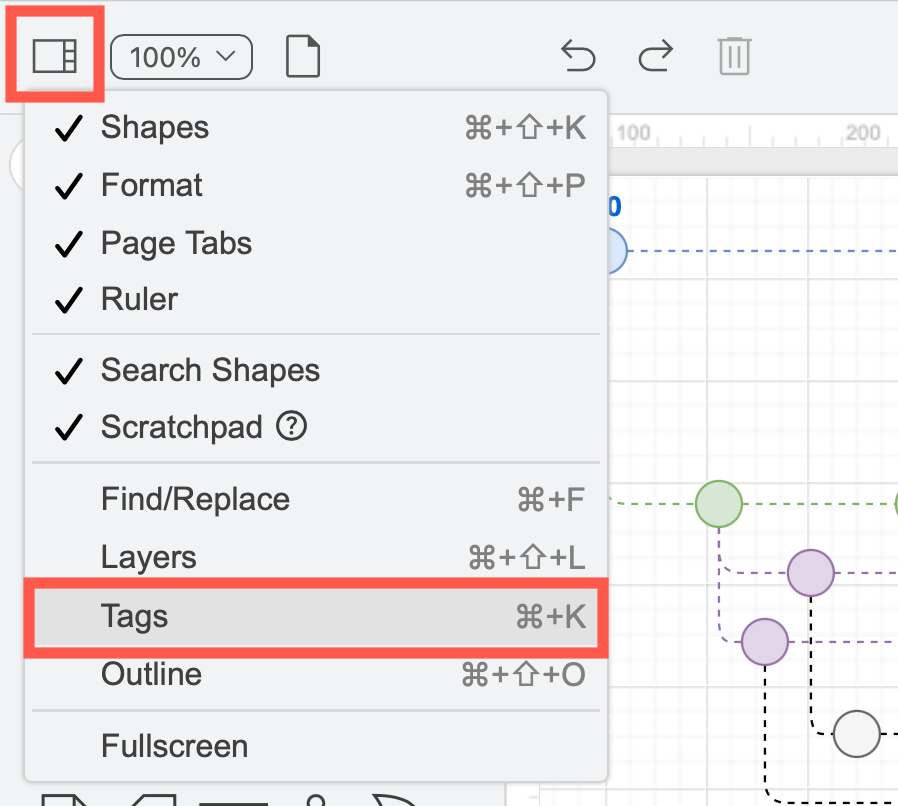
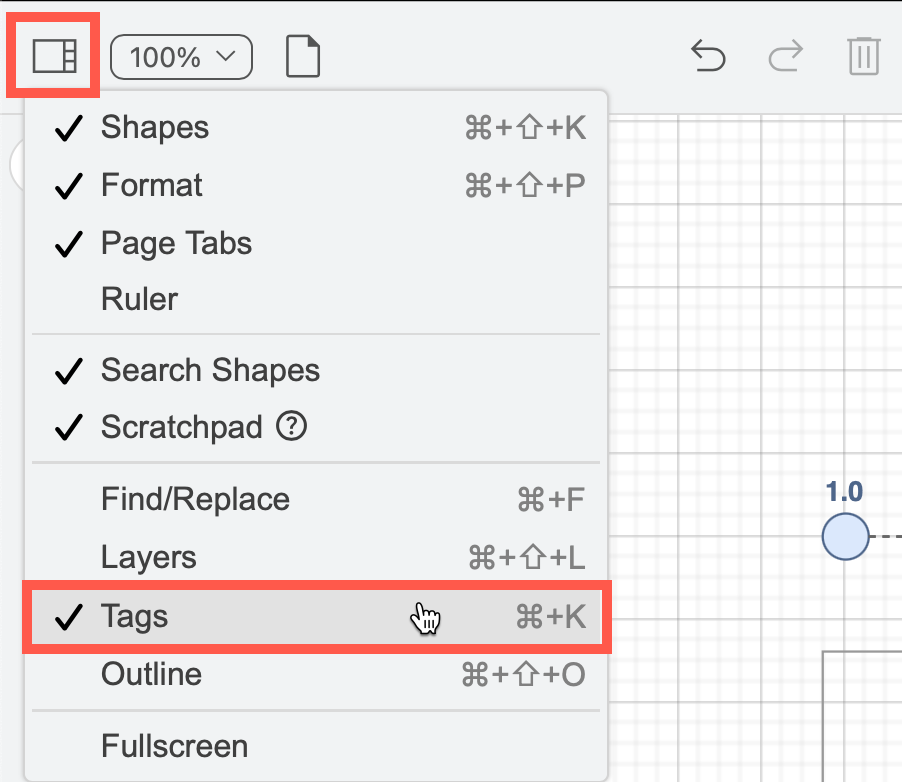
UI changes cont.

diff --git a/_posts/2023-01-20-gitflow-feature-flags.md b/_posts/2023-01-20-gitflow-feature-flags.md
@@ -69,19 +69,19 @@ Tags let you hide or display tagged shapes and connectors, visualising how relea
 
 **Add tags to shapes**
 
-* Click on _View_ in the left of the toolbar and enable _Tags_ or press ``Cmd+K`` on macOS or ``Ctrl+K`` on Windows.
+* To open the _Tags_ dialog, click on _View_ in the left of the toolbar and enable _Tags_ or press ``Cmd+K`` on macOS or ``Ctrl+K`` on Windows.
 <br /><img src="/assets/img/blog/simple-mode-view-tags.png" style="width=100%;max-width:250px;height:auto;" alt="Use the View menu on the toolbar to show the Tags dialog or press Ctrl+K/Cmd+K">
 
-* Select the shapes and connectors you want to apply a tag to, and click _Add_ in the Tags dialog. Enter the new tag press enter. 
+* Select the shapes and connectors you want to apply a new tag to, and click _+_ in the Tags dialog. Enter the new tag name and press ``Enter``. 
 
-* Click a checkbox to the right of an existing tag to add it to a selected shape or connector. 
+* Select one or more shapes, then click a checkbox to the right of an existing tag to add the tag to the selected shapes. 
+  
+* To remove a tag from a shape, select the shape, then deselect the checkbox to the right of its tag name.
 
 **Note:** In this example, we've added the core tag to all trunk (main) versions to make it easier to visualise. 
 
-[<img src="/assets/img/blog/feature-flag-gitflow.png" style="width=100%;max-width:600px;height:auto;" alt="Trunk-based development with feature branches works well with feature flags on release - apply tags to shapes to visualise this in draw.io">](https://app.diagrams.net/?lightbox=1&highlight=0000ff&edit=_blank&layers=1&nav=1&title=#Uhttps%3A%2F%2Fraw.githubusercontent.com%2Fjgraph%2Fdrawio-diagrams%2Fdev%2Fblog%2Fgitflow-feature-flags.drawio)
-<br />[_Open this gitflow with feature flag tags in our diagram viewer_](https://app.diagrams.net/?lightbox=1&highlight=0000ff&edit=_blank&layers=1&nav=1&title=#Uhttps%3A%2F%2Fraw.githubusercontent.com%2Fjgraph%2Fdrawio-diagrams%2Fdev%2Fblog%2Fgitflow-feature-flags.drawio)
-
-**Tip:** You can turn tags on and off via the tags tool in the viewer. 
+[<img src="/assets/img/blog/gitflow-add-core-feature-flag-tag.png" style="width=100%;max-width:600px;height:auto;" alt="Gitflow with an added core feature flag to all trunk shapes in the gitflow diagram">](https://app.diagrams.net/?lightbox=1&highlight=0000ff&edit=_blank&layers=1&nav=1&title=#Uhttps%3A%2F%2Fraw.githubusercontent.com%2Fjgraph%2Fdrawio-diagrams%2Fdev%2Fblog%2Fgitflow-feature-flags.drawio)
+<br />[_Open this gitflow with all feature flag tags in our diagram viewer_](https://app.diagrams.net/?lightbox=1&highlight=0000ff&edit=_blank&layers=1&nav=1&title=#Uhttps%3A%2F%2Fraw.githubusercontent.com%2Fjgraph%2Fdrawio-diagrams%2Fdev%2Fblog%2Fgitflow-feature-flags.drawio)
 
 
 **Visualise feature flag-affected branches and releases**
@@ -91,10 +91,12 @@ Now, with nothing selected in your diagram, click the eye symbols next to tags (
 For example, to see which feature branches are flagged as "api", hide all other branches.  If you want to select just those shapes/connectors, click on the select checkbox next to the tag name.
 <br /><img src="/assets/img/blog/gitflow-api-feature-flag-tag.gif" style="width=100%;max-width:600px;height:auto;" alt="Tags in draw.io let you clearly visualise which feature branches and main versions on the trunk are affected by feature flags and quickly select them">
 
+**Reset to see all tagged shapes:** Click the eye at the bottom of the Tags dialog to show all hidden tagged shapes. 
+
 **Tips for working with tags in draw.io**
 
 * Hover over any shape to see their tags.
-* Connectors coming from or going to hidden shapes will not be displayed.
+* Note that connectors coming from or going to hidden shapes will not be displayed even if they are not tagged.
 * Hold down ``Shift`` and click on any of the eye symbols in the Tags dialog to hide or display all tags. 
 
 In our example Gitflow with feature flag tags, to see which versions on any branch have a feature flags applied, hide the core tag. The shapes that have disappeared are ones that have no feature flags - all customers will be able to see all features on those main versions.
@@ -119,13 +121,14 @@ Add [callouts with list shapes](/blog/label-any-diagram.html) on the released ve
 Also called [shape data](/doc/faq/shape-metadata.html), these could also indicate feature flags, as just like tags, they are displayed when you hover over a shape in your diagram. 
 <br /><img src="/assets/img/blog/feature-flags-shape-data-hover.png" style="width=100%;max-width:250px;height:auto;" alt="Add feature flags to a custom shape property in your gitflow diagram">
 
-1. Use the _Edit_ drop down in the Style panel of the format panel on the right to edit, copy and paste shape data, or right-click on a shape then select _Edit_ from the context menu.
-2. Type the name of a new custom shape property in the _Enter Property Name_ field and click _Add Property_.
-3. Add the feature flag names in the field next to the new shape property.
-<br /><img src="/assets/img/blog/feature-flags-shape-property.png" style="width=100%;max-width:250px;height:auto;" alt="Add feature flags to a custom shape property in your gitflow diagram">
+1. Use the _Edit_ drop down in the Style panel of the format panel on the right to edit, copy and paste shape data, or right-click on a shape then select _Edit > Edit Data_ from the context menu.
+<br /><img src="/assets/img/blog/feature-flags-style-panel-edit.png" style="width=100%;max-width:250px;height:auto;" alt="Add feature flags to a shape via Edit > Data in the Style panel in draw.io">
+1. Type the name of a new custom shape property in the _Enter Property Name_ field and click _Add Property_.
+2. Add the feature flag names in the field next to the new shape property.
+<br /><img src="/assets/img/blog/feature-flags-shape-property.png" style="width=100%;max-width:300px;height:auto;" alt="Add feature flags to a custom shape property in your gitflow diagram">
 
-**Tip:** Copy and paste shape data to quickly duplicate custom properties on another shape via _Edit_ in the right-click context menu.
-<br /><img src="/assets/img/blog/feature-flags-copy-paste-shape-data.png" style="width=100%;max-width:250px;height:auto;" alt="Copy and paste tags on shapes via the right-click context menu in draw.io"> 
+**Tip:** Copy and paste shape data to quickly duplicate custom properties on another shape via _Edit > Copy Data_ and _Edit > Paste Data_ in the right-click context menu.
+<br /><img src="/assets/img/blog/feature-flags-copy-paste-shape-data.png" style="width=100%;max-width:300px;height:auto;" alt="Copy and paste tags on shapes via the right-click context menu in draw.io"> 
 
 [Learn how to work with custom shape properties](/blog/shape-data.html)
 

diff --git a/_posts/2021-10-05-shape-data.md b/_posts/2021-10-05-shape-data.md
@@ -23,8 +23,8 @@ Additional shape data can be used in many different ways.
 
 To see a selected shape's metadata, press ``Ctrl+M`` on Windows, or ``Cmd+M`` on macOS. 
 
-Alternatively, on the _Arrange_ tab in the format panel on the right, click _Edit Data_, or right-click on a shape and select _Edit Data_ from the context menu, or select _Edit > Edit Data_ from the menu. 
-<br /><img src="/assets/img/blog/edit-data-context-menu-arrange-tab.png" style="width=100%;max-width:300px;height:auto;" alt="Right-click on a shape and select Edit data from the context menu, or click Edit Data in the Arrange tab in the format panel"> 
+Alternatively, on the _Style_ tab in the format panel on the right, Select _Edit > Edit Data_ from the list, or right-click on a shape and select _Edit > Edit Data_ from the context menu, or select _Edit > Edit Data_ from the editor menu. 
+<br /><img src="/assets/img/blog/edit-data-context-menu-style-tab.png" style="width=100%;max-width:300px;height:auto;" alt="Right-click on a shape and select Edit data from the context menu, or click Edit > Edit Data in the Style tab in the format panel"> 
 
 In the shape properties dialog, you can add and edit the extra information attached to that shape. 
 <br /><img src="/assets/img/blog/shape-data-link-tag-tooltip.png" style="width=100%;max-width:250px;height:auto;" alt="Add custom properties to a shape, including a link, tags or a tooltip"> 
@@ -37,15 +37,15 @@ In the example above, the shape has a link, a tag and a tooltip.
 ### Copy shape data from one shape to another
 
 1. Select the source shape that contains the shape data you want to copy. 
-2. Click _Copy Data_ in the _Arrange_ tab of the format panel on the right. 
-3. Select the target shape, and click _Paste Data_ in the _Arrange_ tab to overwrite the source shape's metadata. 
+2. Click _Edit > Copy Data_ in the _Style_ tab of the format panel on the right. 
+3. Select the target shape, and click _Edit > Paste Data_ in the _Style_ tab to overwrite the source shape's metadata. 
 <br /><img src="/assets/img/blog/shape-data-copy-paste.gif" style="width=100%;max-width:400px;height:auto;" alt="Copy shape data from one shape and paste it onto another via the Arrange tab"> 
 
 ### Extract shape data
 
 1. Select the shape with the metadata that you want to export. 
-2. Hold ``Shift`` down then left-click on _Copy Data_ in the _Arrange_ tab of the format panel on the right. 
-3. You can now copy the shape data as it appears in XML, including the shape's label text and style and any shape properties.
+2. Click on _Edit > Copy Data_ in the _Style_ tab of the format panel on the right. 
+3. Click _Export_ to see the shape data as it appears in XML, including the shape's label text, styles and shape properties (if defined).
 <br /><img src="/assets/img/blog/shape-data-extract.png" style="width=100%;max-width:250px;height:auto;" alt="Extract the shape's data as it appears in XML"> 
 
 **Dev Tools:** Click _Console_ to export the shape data to your browser's console.
@@ -109,7 +109,7 @@ Custom properties can also be applied globally, not just to shapes, connectors a
 
 While shape style and geometry information are not treated as shape properties, you can edit them in a similar way to editing shape properties. In this way, you can create more complex custom shapes for your diagram.
 
-To see **shape style information**, select a shape press ``Ctrl+E`` on Windows or ``Cmd+E`` on macOS, or select the shape and click _Edit Style_ in the _Style_ tab of the format panel. Edit the XML directly to describe a different [shape style](/doc/faq/shape-styles.html). 
+To see **shape style information**, select a shape press ``Ctrl+E`` on Windows or ``Cmd+E`` on macOS, or select the shape and click _Edit > Edit Style_ in the _Style_ tab of the format panel. Edit the XML directly to describe a different [shape style](/doc/faq/shape-styles.html). 
 <br /><img src="/assets/img/blog/edit-style-dialog.png" style="width=100%;max-width:250px;height:auto;" alt="Edit a shape's style information via Ctrl+E or Cmd+E">
 
 To create **custom shapes**, you need to describe the [shape geometry](/doc/faq/shape-complex-create-edit.html) in addition to the shape style. In the draw.io editor menu, click _Arrange > Insert > Shape_. Enter the geometry and style information in the text field. 

diff --git a/_posts/2019-12-17-placeholders.md b/_posts/2019-12-17-placeholders.md
@@ -22,7 +22,7 @@ But first, you need to add a property to the shape or container shape you want t
 
 You can add custom properties to any shape, connector, container shape, swim lane, etc.
 
-1. Select a shape, and in the _Arrange_ tab of the format panel, click on _Edit Data_. Alternatively, right-click on the shape and select _Edit Data_ from the context menu, or select the shape and press the keyboard shortcut ``Ctrl+M`` on Windows or ``Cmd+M`` on MacOs.
+1. Select a shape, and in the _Style_ tab of the format panel, click on _Edit > Edit Data_. Alternatively, right-click on the shape and select _Edit > Edit Data_ from the context menu, or select the shape and press the keyboard shortcut ``Ctrl+M`` on Windows or ``Cmd+M`` on MacOs.
 2. The dialog lists the custom properties you have added. To add a new one, enter a name for the custom property, then click _Add Property_.
 <br /><img src="/assets/img/blog/add-property-to-shape-1.png" style="width=100%;max-width:400px;height:auto;" alt="Add a property name to your shape">
 3. Now enter a value for the custom property in the text field next to the name you just entered, and click _Apply_.
@@ -51,7 +51,7 @@ If you want to use the properties defined in a parent shape as a placeholder, yo
 
 To display the value of a shape's property in a label, write the property name surrounded by % signs. For example, if you have added a property called _group_ to the shape, write ``%group%``.
 
-1. Right-click on a shape and select _Edit Data_ from the context menu, make sure the _Placeholders_ checkbox is selected, then click _Apply_.
+1. Right-click on a shape and select _Edit > Edit Data_ from the context menu, make sure the _Placeholders_ checkbox is selected, then click _Apply_.
 <br /><img src="/assets/img/blog/use-placeholders-example.png" style="width=100%;max-width:400px;height:auto;" alt="Edit the shape's data, and enable the Placeholders checkbox">
 2. Edit the text label of the shape to include the property name surrounded by % signs.
 <br /><img src="/assets/img/blog/placeholder-example-label.png" style="max-width:100%;height:auto;" alt="Add a placeholder to a shape label, for example %group%">
@@ -64,7 +64,7 @@ If the property name does not exist for that shape, the value of the matching pr
 
 If a property isn't found and the placeholder text appears with the % signs, edit the shape data (``Ctrl+M`` or ``Cmd+M``) of both the shape and its ancestor, double check the property name is correct and make sure that the _Placeholders_ checkbox is enabled.
 
-Note that the diagram itself can have custom properties that can be referenced by placeholders. Make sure nothing in you diagram is selected, then click _Edit Data_ in the format panel on the right to see these 'global' custom properties.
+Note that the diagram itself can have custom properties that can be referenced by placeholders. Make sure nothing in you diagram is selected, then click _Edit > Edit Data_ in the format panel on the right to see these 'global' custom properties.
 
 Note that there are a few _special_ shape property names:
 - **tooltip**: If you define a tooltip property, only this text will be displayed when you hover over a shape (and no other custom properties).
@@ -90,6 +90,6 @@ Looking at a somewhat more practical example - you can use placeholders in label
 
 In the example below, the labels on the individual nodes inside the subnet use a placeholder which references the custom ``subnet`` property of the containing oval shape. This makes it easy to update the IP addresses in that subnet.
 
-<img src="/assets/img/blog/placeholder-subnet-example.gif" style="width=100%;max-width:400px;height:auto;" alt="Placeholders in the the labels of nodes in an infrastructure diagram">
+<img src="/assets/img/blog/placeholder-subnet-example.gif" style="width=100%;max-width:600px;height:auto;" alt="Placeholders in the the labels of nodes in an infrastructure diagram">
 
 [Open this example in our online version of draw.io](https://app.diagrams.net/?lightbox=0&highlight=0000ff&edit=_blank&layers=1&page=1&nav=1&title=#Uhttps%3A%2F%2Fraw.githubusercontent.com%2Fjgraph%2Fdrawio-diagrams%2Fdev%2Fblog%2Fnetwork-with-placeholders.drawio)

diff --git a/_posts/2022-07-20-translate-diagrams.md b/_posts/2022-07-20-translate-diagrams.md
@@ -34,7 +34,7 @@ Alternatively, add ``"translateDiagrams": true`` to the [draw.io editor configur
 ## Translate labels on shapes and connectors
 When you have enabled the diagram translation feature via the URL parameter above, the original label is shown at the top of the _Edit Data_ dialog. 
 
-1. Right-click on a shape or connector and select _Edit Data_ from the context menu. Alternatively, select a shape and press ``Ctrl+M`` or ``Cmd+M``.
+1. Right-click on a shape or connector and select _Edit > Edit Data_ from the context menu. Alternatively, select a shape and press ``Ctrl+M`` or ``Cmd+M``.
 2. Add a language for the label in the format ``label_XY`` where ``XY`` is a [two-letter language code](https://en.wikipedia.org/wiki/List_of_ISO_639-1_codes), and click _Add Property_. 
 <br /><img src="/assets/img/blog/translate-add-label.png" style="width=100%;max-width:400px;height:auto;" alt="Add a shape property for each language of a shape's label in the diagram editor to translate directly in the editor">
 <br />E.g. ``label_de`` is German, ``label_es`` is Spanish, ``label_jp`` is Japanese, etc.

diff --git a/doc/faq/shape-metadata.md b/doc/faq/shape-metadata.md
@@ -12,7 +12,7 @@ Most of a shape's custom metadata will be displayed in a tooltip when you hover 
 
 ## Edit the shape metadata
 
-Right click on the shape or connector, and select _Edit Data_ from the context menu. Alternatively, select the shape or connector then press ``Ctrl+M`` on Windows, or ``Cmd+M`` on macOS. 
+Right click on the shape or connector, and select _Edit > Edit Data_ from the context menu. Alternatively, select the shape or connector then press ``Ctrl+M`` on Windows, or ``Cmd+M`` on macOS, or select _Edit > Edit Data_ from the list in the Style tab of the format panel.
 <br /><img src="/assets/img/blog/metadata-edit.png" style="width=100%;max-width:300px;height:auto;" alt="Edit the shape properties via the context menu to change the metadata">
 
 The shape metadata is displayed in a dialog, with property names on the left, and values on the right.

diff --git a/_posts/2018-12-25-placeholder-scope.md b/_posts/2018-12-25-placeholder-scope.md
@@ -43,7 +43,7 @@ You can add a placeholder to a label explicitly by referencing the property name
 
 There are some property names that behave in a particular way. You can use one particular property name to override a shape's label.
 
-1. Select a shape and use the keyboard shortcut ``Ctrl+M`` or ``Cmd+M``, or right-click on a shape and select _Edit Data_, then add a property called ``placeholder`` to a shape.
+1. Select a shape and use the keyboard shortcut ``Ctrl+M`` or ``Cmd+M``, or right-click on a shape and select _Edit > Edit Data_, then add a property called ``placeholder`` to a shape.
 2. As the value for the ``placeholder`` property, enter another property name.
 
 Make sure that this second property exists either:
